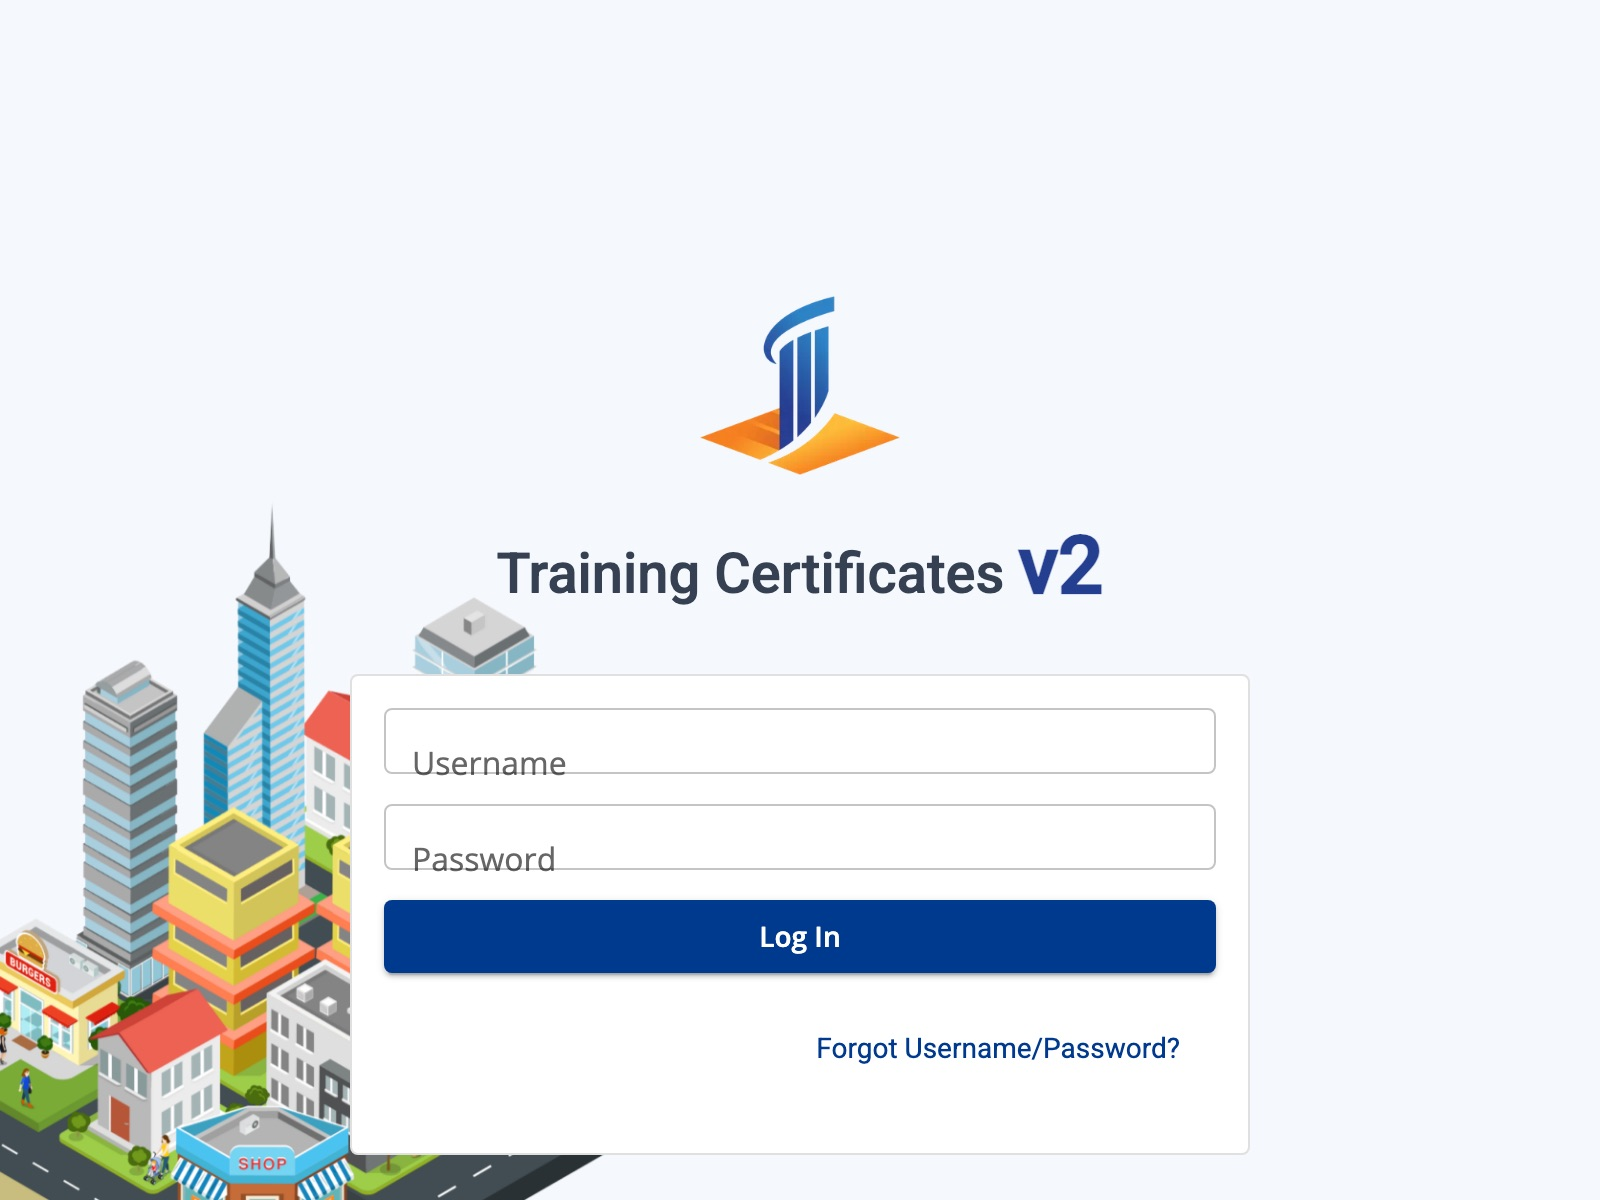
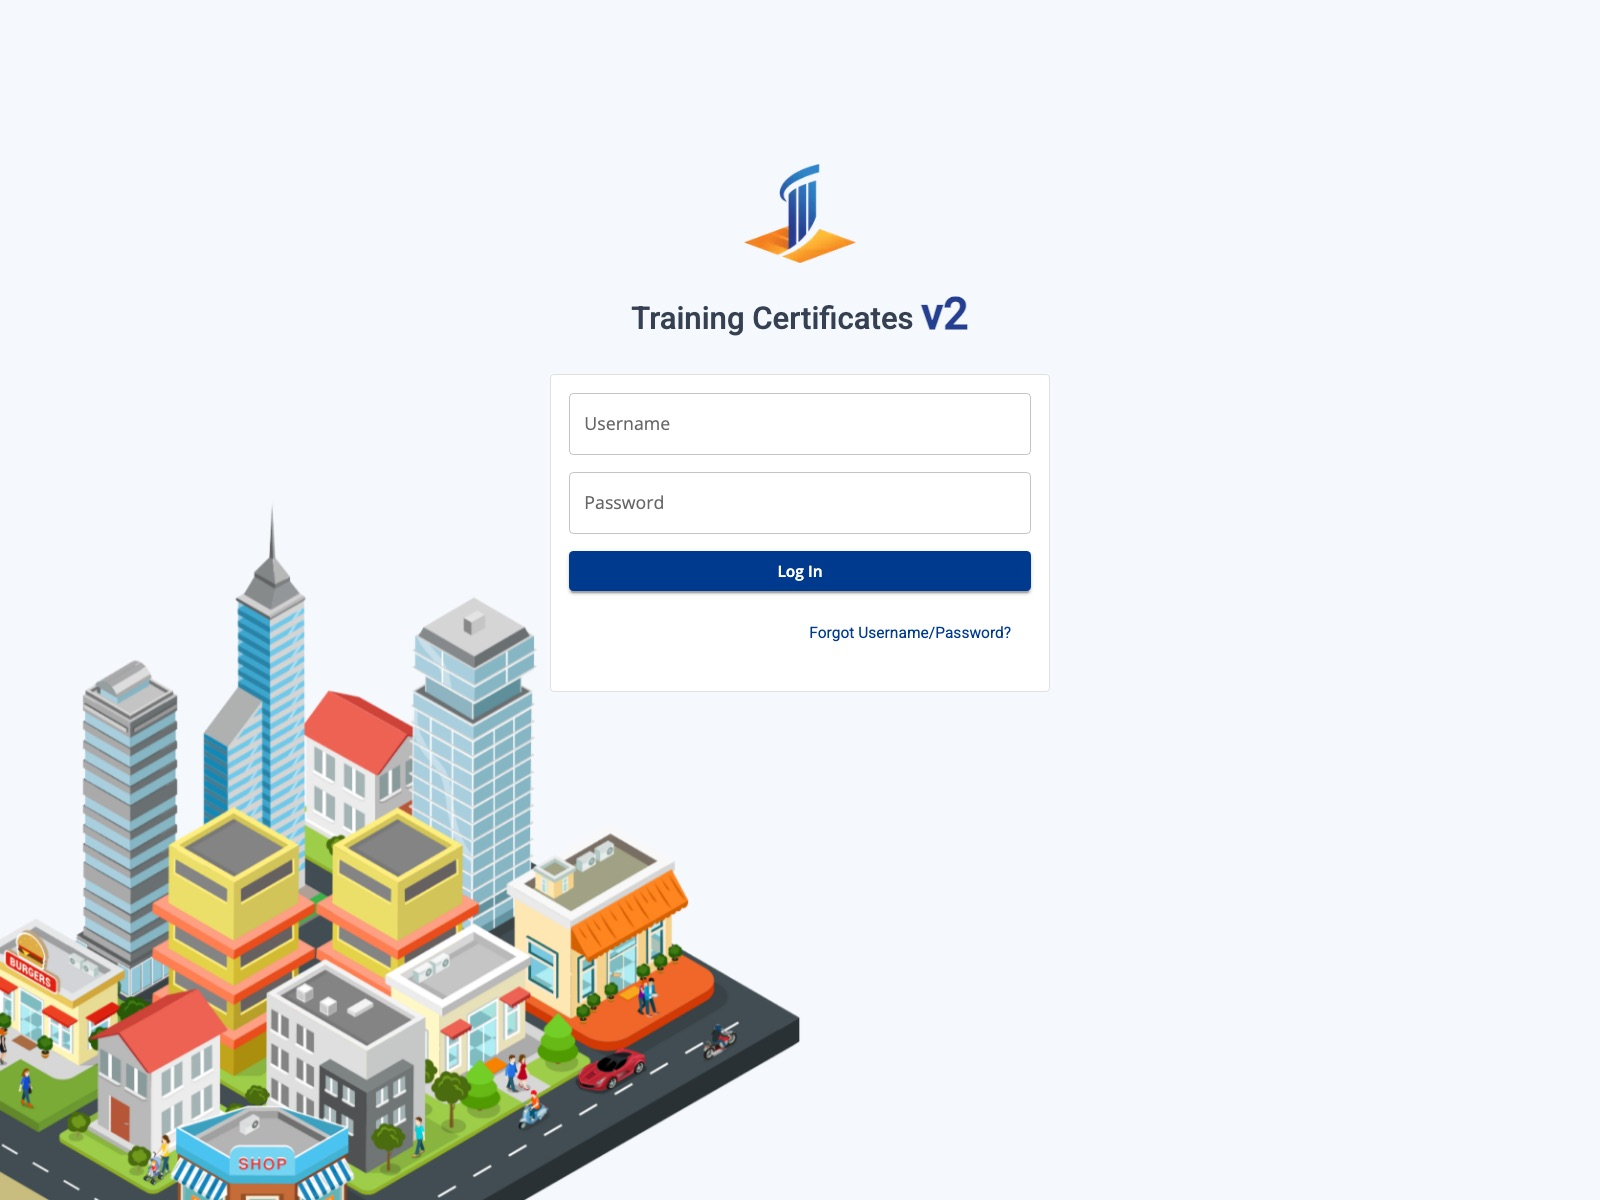
Use a desktop capture for the J3 TMS card
The sign-in screen is now captured at desktop width, so the logo, form and
city illustration sit as visitors see them. The alt text matches the new
layout.

diff --git a/src/components/landing/Work.tsx b/src/components/landing/Work.tsx
@@ -127,7 +127,7 @@ const earlierWork = [
     highlight: "Rebuilt as version 2 of J3’s certificate system",
     role: "Full-stack developer",
     image: "/images/work/j3-tms.jpg",
-    alt: "J3 TMS sign-in screen: the J3 logo above “Training Certificates v2” and a username and password form, beside an illustrated city",
+    alt: "J3 TMS sign-in screen on desktop: the J3 logo above “Training Certificates v2” and a username and password form, with an illustrated city in the corner",
   },
   {
     title: "Stars of Aroha",
